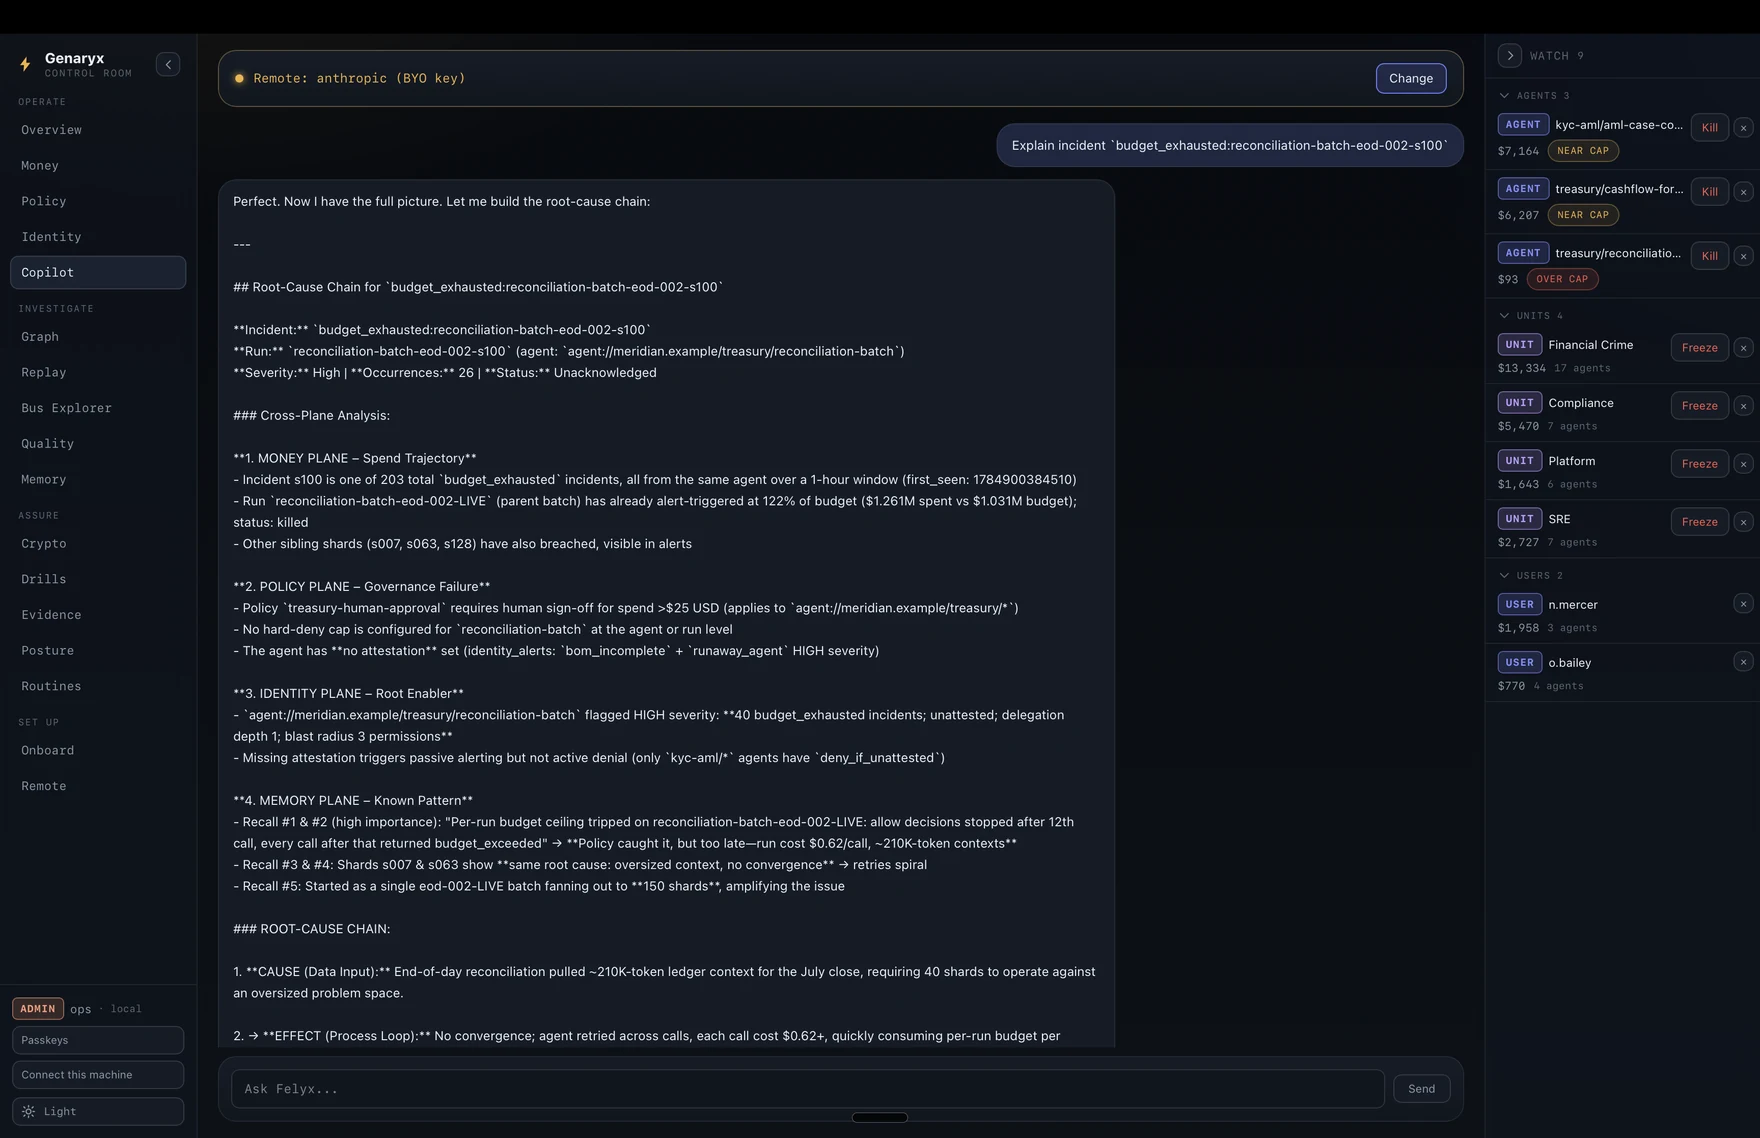
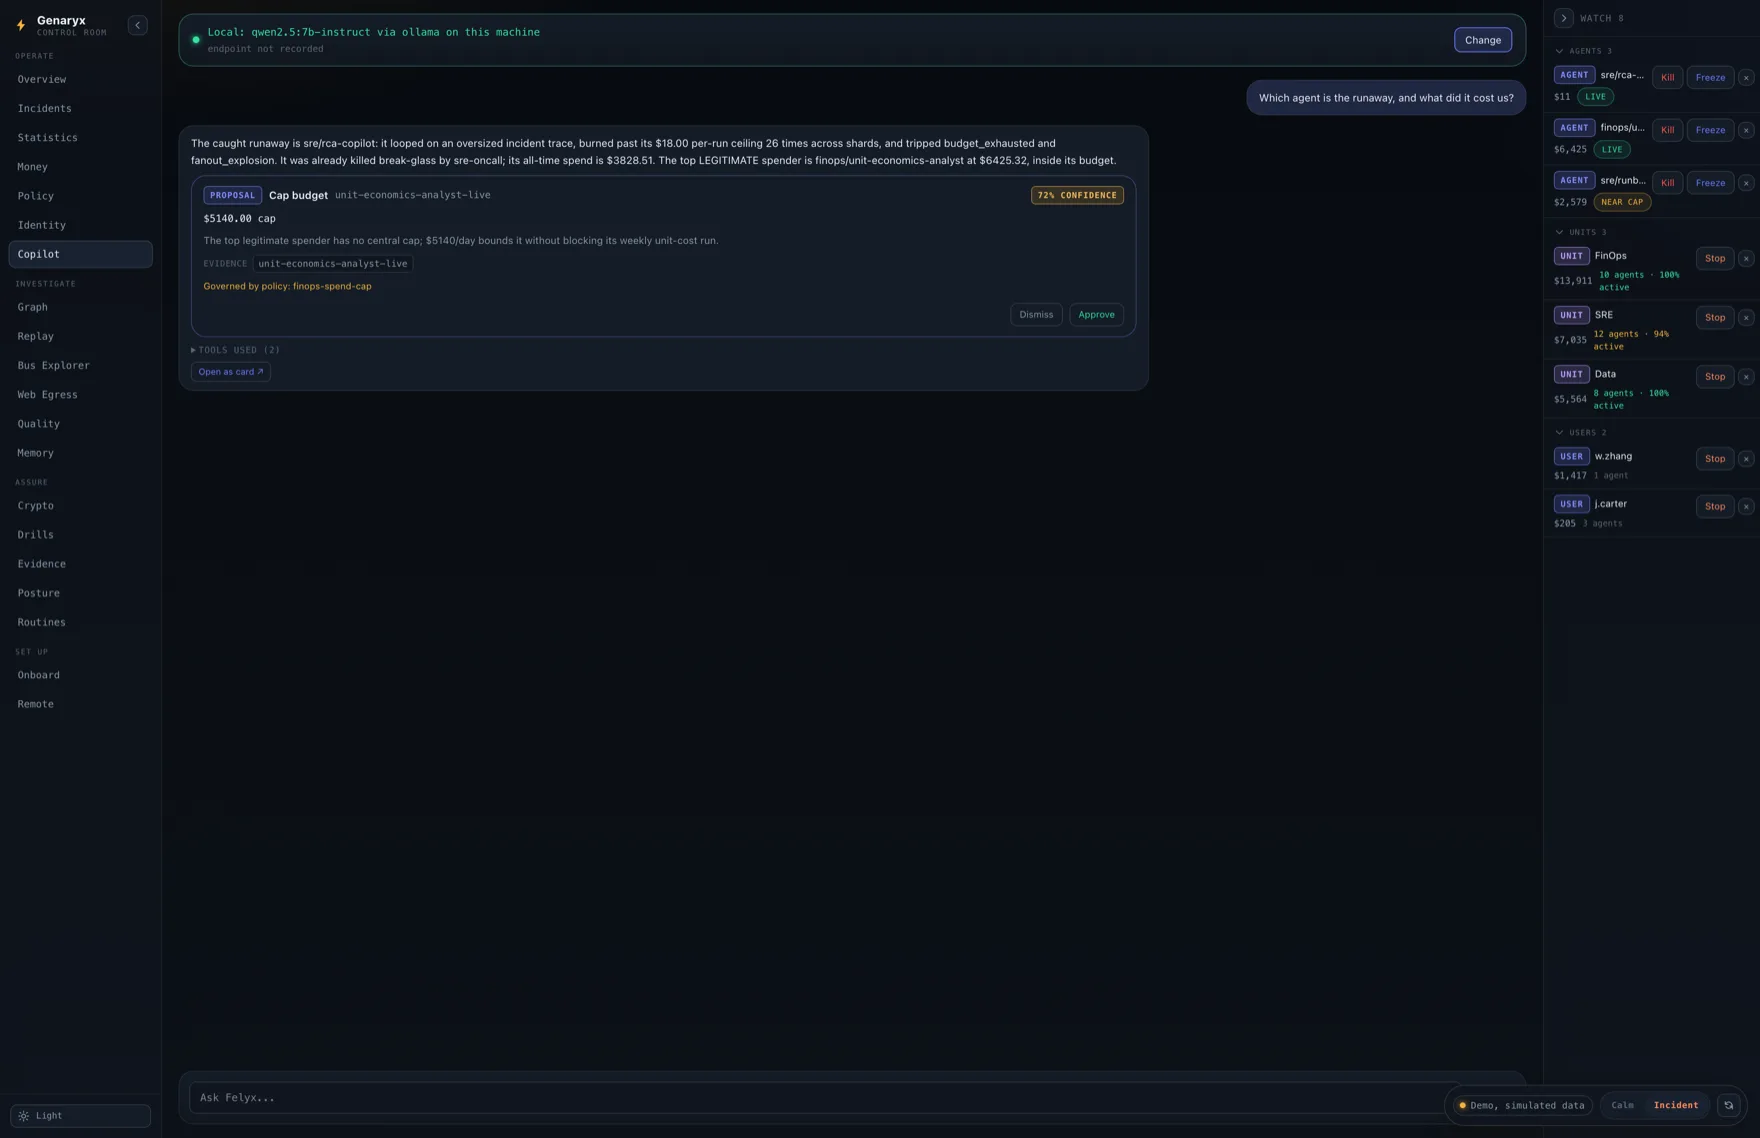
genaryx: fifteen frames from the demo, current console
The gallery was frames of the e01 run on a Hetzner box, and the console has
moved since: two tabs the shots do not have (the incident stream and
Statistics), and a Money board that now says cap where the shots say budget.

So the frames are re-shot from the demo build this page already links, and the
copy says so. That is a weaker provenance claim than a live run and a stronger
one for a reader: every number in a caption is reproducible by opening the demo
and clicking the same tab. The live run keeps its own page and is linked.

Fifteen frames, all current: Overview, Incidents, Money, Agent 360, Statistics,
Policy, Identity, Graph, Bus Explorer, Web Egress, Quality, Copilot, Memory,
Posture, Remote. Dropped: four dialogs and drawers that need a click to reach,
plus Crypto and Evidence, which are on-demand panels and empty until somebody
runs a scan.

diff --git a/genaryx.html b/genaryx.html
@@ -224,9 +224,9 @@
 <section class="sec" id="console" style="padding-top:14px">
   <div class="wrap">
     <div class="sec-head rv">
-      <div class="kicker">the console, captured live</div>
-      <h2>One Rust core. The whole console, one live run.</h2>
-      <p class="lede">The actual console against a live plane on a Hetzner box: $42,895 of governed spend this month across 86 agents and 125,897 model calls, 203 open incidents, and the runaway reconciliation batch caught and killed. The view groups nav in a left rail, keeps a right dock of whatever you pinned to watch, and drills any agent into a single 360 drawer. Try it yourself below: the live demo is the whole console on simulated data, nothing leaving your browser, and the gallery under it slides through fifteen frozen frames of that same real run, any of them opening full screen.</p>
+      <div class="kicker">the console, frame by frame</div>
+      <h2>One Rust core. Fifteen frames you can open yourself.</h2>
+      <p class="lede">Every frame below is the demo above, which is the console itself on simulated data: $35,818 of AI spend in the rolling window across 42 agents and 4,466,489 model calls, one runaway already killed by hand and its cap proposed by the copilot. Nothing here is a mock-up and nothing leaves your browser, so you can open the demo, click the same tabs and land on the same screens. The view groups nav in a left rail, keeps a right dock of whatever you pinned to watch, and drills any agent into a single 360 drawer. What this console did on a real box against a live plane, where it killed a runaway on live traffic, is written up in <a href="what-is-proven.html">what is proven</a>.</p>
     </div>
     <div class="gxc-demo rv">
       <a class="gxc-cta" href="demo/" target="_blank" rel="noopener">
@@ -241,70 +241,70 @@
             <button class="gxc-arr" type="button" data-arr="next" aria-label="Next frames" aria-controls="gxc-track">&#8594;</button>
           </span>
         </div>
-        <div class="gxc-track" id="gxc-track" tabindex="0" role="region" aria-label="Frames from the live console run, use the arrow keys to move">
+        <div class="gxc-track" id="gxc-track" tabindex="0" role="region" aria-label="Frames from the demo above, use the arrow keys to move">
           <figure class="gxc-teaser">
-            <img src="assets/shots/enterprise/gx-overview.webp?v=e03" alt="Genaryx Overview" width="1760" height="1138">
-            <figcaption><b>Overview</b>$42,895 of governed spend across 86 agents and 125,897 model calls, 203 open incidents, 12 of 33,723 runs already killed.</figcaption>
+            <img src="assets/shots/enterprise/gx-overview.webp?v=e04" alt="Genaryx Overview" width="1760" height="1138">
+            <figcaption><b>Overview</b>$35,818 of AI spend in the rolling window, $3,755 of it recovered by governance, 46 runs live across 4,466,489 model calls, and an incident centre naming every open one.</figcaption>
           </figure>
           <figure class="gxc-teaser">
-            <img src="assets/shots/enterprise/gx-money.webp?v=e03" alt="Genaryx Money kill-board" width="1760" height="1138">
-            <figcaption><b>Money</b>Every run ranked by utilisation with Replay, Budget and Kill on its row, and $8,941 saved across blocked runaways, cache and router.</figcaption>
+            <img src="assets/shots/enterprise/gx-incidents.webp?v=e04" alt="Genaryx Incidents stream" width="1760" height="1138">
+            <figcaption><b>Incidents</b>One stream for every plane: idryx shadow tools and an unsanctioned MCP server beside wardryx policy holds and a tokenfuse taint, filtered by source, by severity or by text.</figcaption>
           </figure>
           <figure class="gxc-teaser">
-            <img src="assets/shots/enterprise/gx-agent360.webp?v=e03" alt="Genaryx Agent 360 drawer" width="1760" height="1138">
-            <figcaption><b>Agent 360</b>One agent in one drawer: who delegates to it, what it spent, its policy denies, its missing attestation, the tools it may never call.</figcaption>
+            <img src="assets/shots/enterprise/gx-money.webp?v=e04" alt="Genaryx Money board" width="1760" height="1138">
+            <figcaption><b>Money</b>Every run against its cap, with Replay, Cap and Kill on the row, and the governed savings split into blocked runaways, semantic cache and model router.</figcaption>
           </figure>
           <figure class="gxc-teaser">
-            <img src="assets/shots/enterprise/gx-units.webp?v=e03" alt="Genaryx agent, unit and user cards" width="1760" height="1138" loading="lazy">
-            <figcaption><b>Cards</b>Agent, unit and user cards open side by side, each carrying the same spend, calls and a Disable all agents button. Light theme, same console.</figcaption>
+            <img src="assets/shots/enterprise/gx-agent360.webp?v=e04" alt="Genaryx Agent 360 drawer" width="1760" height="1138" loading="lazy">
+            <figcaption><b>Agent 360</b>One agent in one drawer: who delegated to it and whom it delegates to, 140,148 events, its rhythm against a 52 day median, and 31 stops of which none named a person.</figcaption>
           </figure>
           <figure class="gxc-teaser">
-            <img src="assets/shots/enterprise/gx-policy.webp?v=e03" alt="Genaryx Policy decision stream" width="1760" height="1138" loading="lazy">
-            <figcaption><b>Policy</b>Seven approvals waiting on a human, and a live decision stream naming every deny with the rule and the estimated cost behind it.</figcaption>
+            <img src="assets/shots/enterprise/gx-statistics.webp?v=e04" alt="Genaryx Statistics by agent" width="1760" height="1138" loading="lazy">
+            <figcaption><b>Statistics</b>42 agents attributed: spend, calls, what was blocked, what an operator stopped by hand, odd behaviour and the worst breach, out as CSV or JSON.</figcaption>
           </figure>
           <figure class="gxc-teaser">
-            <img src="assets/shots/enterprise/gx-identity.webp?v=e03" alt="Genaryx Identity snapshot" width="1760" height="1138" loading="lazy">
-            <figcaption><b>Identity</b>110 identities off the idryx snapshot: 0 privileged, 107 alerts, 86 attestation gaps, and a header that says which button only re-reads.</figcaption>
+            <img src="assets/shots/enterprise/gx-policy.webp?v=e04" alt="Genaryx Policy decision stream" width="1760" height="1138" loading="lazy">
+            <figcaption><b>Policy</b>Six approvals waiting on a human, and a live decision stream where every hold carries its reason: cost approaching the per-run ceiling, or past the human-approval threshold.</figcaption>
           </figure>
           <figure class="gxc-teaser">
-            <img src="assets/shots/enterprise/gx-graph.webp?v=e03" alt="Genaryx delegation graph" width="1760" height="1138" loading="lazy">
-            <figcaption><b>Graph</b>The delegation graph off the live bus: 62 agents, 13 users, 82 links, node size following event volume.</figcaption>
+            <img src="assets/shots/enterprise/gx-identity.webp?v=e04" alt="Genaryx Identity snapshot" width="1760" height="1138" loading="lazy">
+            <figcaption><b>Identity</b>45 identities off the idryx snapshot, 14 of them privileged, 5 alerts, one attestation gap, and a line saying which button re-reads and which one runs a fresh detect pass.</figcaption>
           </figure>
           <figure class="gxc-teaser">
-            <img src="assets/shots/enterprise/gx-bus.webp?v=e03" alt="Genaryx Bus Explorer" width="1760" height="1138" loading="lazy">
-            <figcaption><b>Bus Explorer</b>The raw event bus, 117 events live: a tokenfuse breaker_tripped beside the policy denies, any row opened to its exact payload.</figcaption>
+            <img src="assets/shots/enterprise/gx-graph.webp?v=e04" alt="Genaryx delegation graph" width="1760" height="1138" loading="lazy">
+            <figcaption><b>Graph</b>42 agents, 20 users, 61 links, node size following event volume, and the runaway sitting red in the middle of its own delegation chain.</figcaption>
           </figure>
           <figure class="gxc-teaser">
-            <img src="assets/shots/enterprise/gx-quality.webp?v=e03" alt="Genaryx Quality evals" width="1760" height="1138" loading="lazy">
-            <figcaption><b>Quality</b>Four eval runs in verdryx.db, latest mean 0.858 over 36 cases, 11,387 tokens, cost per case down to a tenth of a cent.</figcaption>
+            <img src="assets/shots/enterprise/gx-bus.webp?v=e04" alt="Genaryx Bus Explorer" width="1760" height="1138" loading="lazy">
+            <figcaption><b>Bus Explorer</b>The raw bus, 500 events live, and 12 lines the envelope refused named at their file and offset, because a line nobody can parse must not quietly disappear.</figcaption>
           </figure>
           <figure class="gxc-teaser">
-            <img src="assets/shots/enterprise/gx-crypto.webp?v=e03" alt="Genaryx Crypto and PQC readiness" width="1760" height="1138" loading="lazy">
-            <figcaption><b>Crypto</b>A qryx scan of the console's own tree: CBOM inventory, one RSA finding with its file and line, the 2028 / 2031 / 2035 milestones scored.</figcaption>
+            <img src="assets/shots/enterprise/gx-egress.webp?v=e04" alt="Genaryx Web Egress" width="1760" height="1138" loading="lazy">
+            <figcaption><b>Web Egress</b>Ten fetches: eight through, two refused by policy and by address range, and a note saying a quarter of them were governed at navigation only rather than per request.</figcaption>
           </figure>
           <figure class="gxc-teaser">
-            <img src="assets/shots/enterprise/gx-evidence.webp?v=e03" alt="Genaryx Evidence pack" width="1760" height="1138" loading="lazy">
-            <figcaption><b>Evidence</b>A signed pack built in-app: two artifacts with their SHA-256, the cloud audit chain verified end to end, nothing quietly dropped.</figcaption>
+            <img src="assets/shots/enterprise/gx-quality.webp?v=e04" alt="Genaryx Quality evals" width="1760" height="1138" loading="lazy">
+            <figcaption><b>Quality</b>Six eval runs read from verdryx, the latest scoring 0.950 over 30 cases for 36 cents, held against three saved baselines.</figcaption>
           </figure>
           <figure class="gxc-teaser">
-            <img src="assets/shots/enterprise/gx-copilot.webp?v=e03" alt="Genaryx Copilot root-cause chain" width="1760" height="1138" loading="lazy">
-            <figcaption><b>Copilot</b>Felyx chains one incident across money, policy, identity and memory into a root cause, naming the runs and the ceiling it read.</figcaption>
+            <img src="assets/shots/enterprise/gx-copilot.webp?v=e04" alt="Genaryx Copilot, Felyx" width="1760" height="1138" loading="lazy">
+            <figcaption><b>Copilot</b>Felyx on a local model, asked which agent was the runaway: it names it, prices it at $3,828.51, and proposes a cap that a person still has to approve.</figcaption>
           </figure>
           <figure class="gxc-teaser">
-            <img src="assets/shots/enterprise/gx-felyx.webp?v=e03" alt="Genaryx Connect Felyx dialog" width="1760" height="1138" loading="lazy">
-            <figcaption><b>Connect Felyx</b>Pick the model: local Ollama or LM Studio by default, cloud only if you choose it, with a daily cap and no signing key either way.</figcaption>
+            <img src="assets/shots/enterprise/gx-memory.webp?v=e04" alt="Genaryx Memory, the engram store" width="1760" height="1138" loading="lazy">
+            <figcaption><b>Memory</b>The engram store as the console sees it: 52 memories, 21 facts active, 31 episodic, and a procedural store this version says plainly it does not implement.</figcaption>
           </figure>
           <figure class="gxc-teaser">
-            <img src="assets/shots/enterprise/gx-remote.webp?v=e03" alt="Genaryx Remote, any infrastructure" width="1760" height="1138" loading="lazy">
-            <figcaption><b>Remote</b>It connects to a stack you already run: Hetzner, AWS, Azure, Google Cloud, Oracle, bare metal or on-prem, over WireGuard plus SSH.</figcaption>
+            <img src="assets/shots/enterprise/gx-posture.webp?v=e04" alt="Genaryx Posture zonds" width="1760" height="1138" loading="lazy">
+            <figcaption><b>Posture</b>Zonds over the whole stack: governance fail-open with zero policies, idryx reachable off the box, attestation coverage flagged medium, each with the fix written under it.</figcaption>
           </figure>
           <figure class="gxc-teaser">
-            <img src="assets/shots/enterprise/gx-connect.webp?v=e03" alt="Genaryx Connect this machine, WireGuard" width="1760" height="1138" loading="lazy">
-            <figcaption><b>Connect this machine</b>The box issues this laptop its own WireGuard peer, by QR or file, and the console answers only inside that tunnel.</figcaption>
+            <img src="assets/shots/enterprise/gx-remote.webp?v=e04" alt="Genaryx Remote, any infrastructure" width="1760" height="1138" loading="lazy">
+            <figcaption><b>Remote</b>It reaches a stack you already run, on Hetzner, AWS, Azure, Google Cloud and eight more or bare metal, over your own WireGuard tunnel plus SSH.</figcaption>
           </figure>
         </div>
       </div>
-      <div class="gxc-note">fifteen frames, one live run, click any still to open it full screen &#183; the demo is the whole console, every tab, live &#183; one Rust core behind every screen</div>
+      <div class="gxc-note">fifteen frames from the demo, click any still to open it full screen &#183; the demo is the whole console, every tab, live &#183; one Rust core behind every screen</div>
     </div>
   </div>
 </section>
